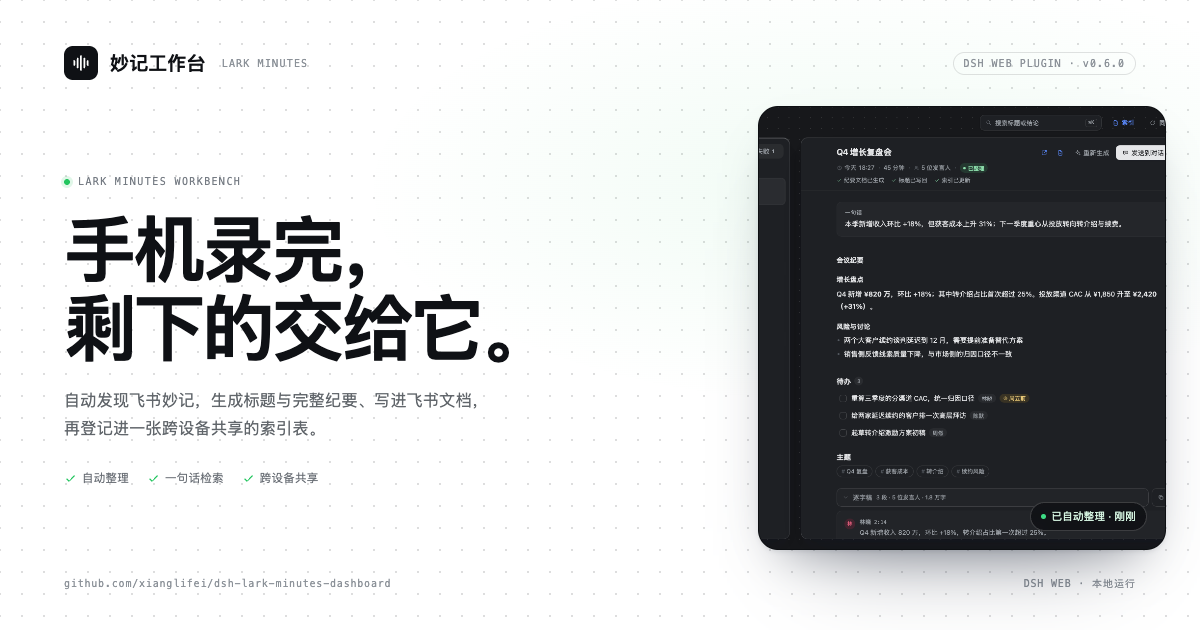
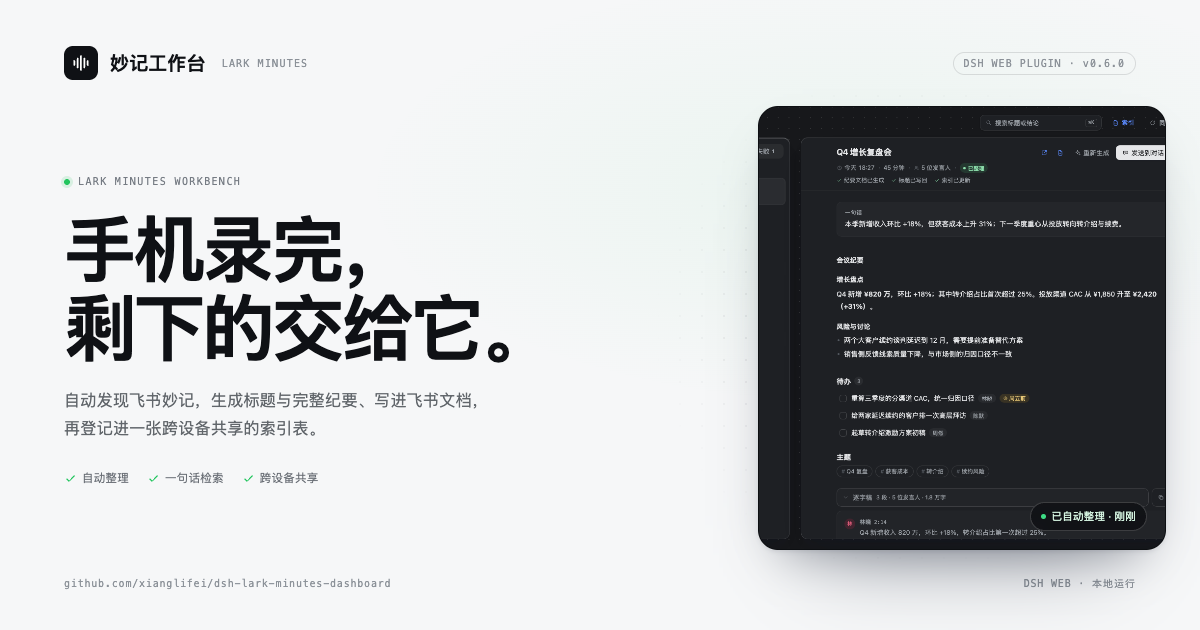
style: 收掉全页点阵，改用近白底与局部画布点缀
背景改为 #f6f7f8 / #0b0d10，不再铺满 22px 点阵；点阵只保留在首屏产品图周围的柔光光环里，并同步更新 OG 图与站点说明。

diff --git a/docs/style.css b/docs/style.css
@@ -6,9 +6,9 @@
 :root {
   color-scheme: light;
 
-  --bg: #ffffff;
+  --bg: #f6f7f8;
   --surface: #ffffff;
-  --surface-2: #f6f7f8;
+  --surface-2: #f2f4f6;
   --border: rgba(15, 17, 21, .10);
   --border-soft: rgba(15, 17, 21, .055);
   --text: #0f1115;
@@ -49,7 +49,7 @@
 [data-theme="dark"] {
   color-scheme: dark;
 
-  --bg: #0d0f12;
+  --bg: #0b0d10;
   --surface: #16191e;
   --surface-2: #1b1f25;
   --border: rgba(255, 255, 255, .12);
@@ -97,9 +97,6 @@ body {
   margin: 0;
   min-height: 100%;
   background-color: var(--bg);
-  background-image: radial-gradient(circle, var(--dot) 1px, transparent 1.15px);
-  background-size: 22px 22px;
-  background-position: 11px 11px;
   color: var(--text);
   font-family: var(--sans);
   font-size: 14px;
@@ -272,7 +269,20 @@ code, pre, kbd { font-family: var(--mono); }
 .hero {
   position: relative;
   padding: 84px 0 0;
+  isolation: isolate;
 }
+.hero::before {
+  content: "";
+  position: absolute;
+  inset: 0 0 auto;
+  height: 760px;
+  background: radial-gradient(62% 68% at 50% 0%,
+    color-mix(in srgb, var(--text) 3.4%, transparent),
+    transparent 72%);
+  pointer-events: none;
+  z-index: -1;
+}
+.hero > .wrap { position: relative; }
 .hero-inner {
   max-width: 920px;
   text-align: center;
@@ -382,8 +392,28 @@ code, pre, kbd { font-family: var(--mono); }
 .hero-proof .icon { width: 13px; height: 13px; color: var(--ok); }
 
 .hero-figure {
+  position: relative;
+  isolation: isolate;
   margin: 58px auto 0;
   max-width: 1120px;
+}
+.hero-figure::before {
+  content: "";
+  position: absolute;
+  left: 0;
+  right: 0;
+  top: -20px;
+  bottom: 48px;
+  border-radius: 32px;
+  background-image: radial-gradient(circle,
+    color-mix(in srgb, var(--text) 8%, transparent) 1px,
+    transparent 1.15px);
+  background-size: 22px 22px;
+  background-position: 11px 11px;
+  -webkit-mask-image: radial-gradient(ellipse 76% 78% at 50% 46%, #000 32%, transparent 78%);
+  mask-image: radial-gradient(ellipse 76% 78% at 50% 46%, #000 32%, transparent 78%);
+  z-index: -1;
+  pointer-events: none;
 }
 .shot {
   border: 1px solid var(--border);

diff --git a/docs/index.html b/docs/index.html
@@ -5,8 +5,8 @@
 <meta name="viewport" content="width=device-width, initial-scale=1">
 <title>妙记工作台 · 把飞书妙记变成能看的会议纪要</title>
 <meta name="description" content="DSH Web 插件。自动发现飞书妙记，生成标题与完整纪要，写进飞书文档，并用一张索引表跨设备记住每一场会。">
-<meta name="theme-color" content="#ffffff" media="(prefers-color-scheme: light)">
-<meta name="theme-color" content="#0d0f12" media="(prefers-color-scheme: dark)">
+<meta name="theme-color" content="#f6f7f8" media="(prefers-color-scheme: light)">
+<meta name="theme-color" content="#0b0d10" media="(prefers-color-scheme: dark)">
 <link rel="canonical" href="https://xianglifei.github.io/dsh-lark-minutes-dashboard/">
 <link rel="icon" href="assets/icon.svg" type="image/svg+xml">
 <link rel="stylesheet" href="style.css">

diff --git a/docs/app.js b/docs/app.js
@@ -23,7 +23,7 @@
     if (persist) {
       try { localStorage.setItem('lm-theme', next); } catch (e) {}
     }
-    var color = next === 'dark' ? '#0d0f12' : '#ffffff';
+    var color = next === 'dark' ? '#0b0d10' : '#f6f7f8';
     var metas = document.querySelectorAll('meta[name="theme-color"]');
     for (var i = 0; i < metas.length; i++) {
       metas[i].setAttribute('content', color);

diff --git a/docs/README.md b/docs/README.md
@@ -33,7 +33,7 @@ python3 -m http.server 8765
 | 文件 | 作用 |
 |---|---|
 | `index.html` | 页面结构、中文文案、内联 SVG 图标 |
-| `style.css` | 与插件同一套视觉：22px 点阵、14px 圆角、DSH token 近似值、深浅色 |
+| `style.css` | 与插件同一套视觉：近白底、14px 圆角浮卡、只在首屏产品图周围保留 22px 点阵点缀、深浅色 |
 | `app.js` | 主题切换、吸顶导航、入场动画、复制命令 |
 | `assets/workbench-light.png` | 浅色界面截图（来自 `assets/ui-0.5.0.png`） |
 | `assets/workbench-dark.png` | 深色界面截图（本地设计记录） |
@@ -44,4 +44,5 @@ python3 -m http.server 8765
 - 版本号写在 `index.html` 的 hero eyebrow（`v0.6.0`）、页脚和 JSON-LD 里，发版时一起改。
 - 安装命令、默认配置和「已知限制」都来自仓库 README；改默认值后记得同步这两处。
 - 截图更新时替换 `docs/assets/` 下的两张图，保持原始比例即可，卡片会自动缩放。
+- 页面底色是 `#f6f7f8`；点阵只出现在首屏产品图的 `::before` 光环里。想彻底去掉，删掉 `.hero-figure::before` 即可。
 - 不需要 Jekyll，`.nojekyll` 已就位。
